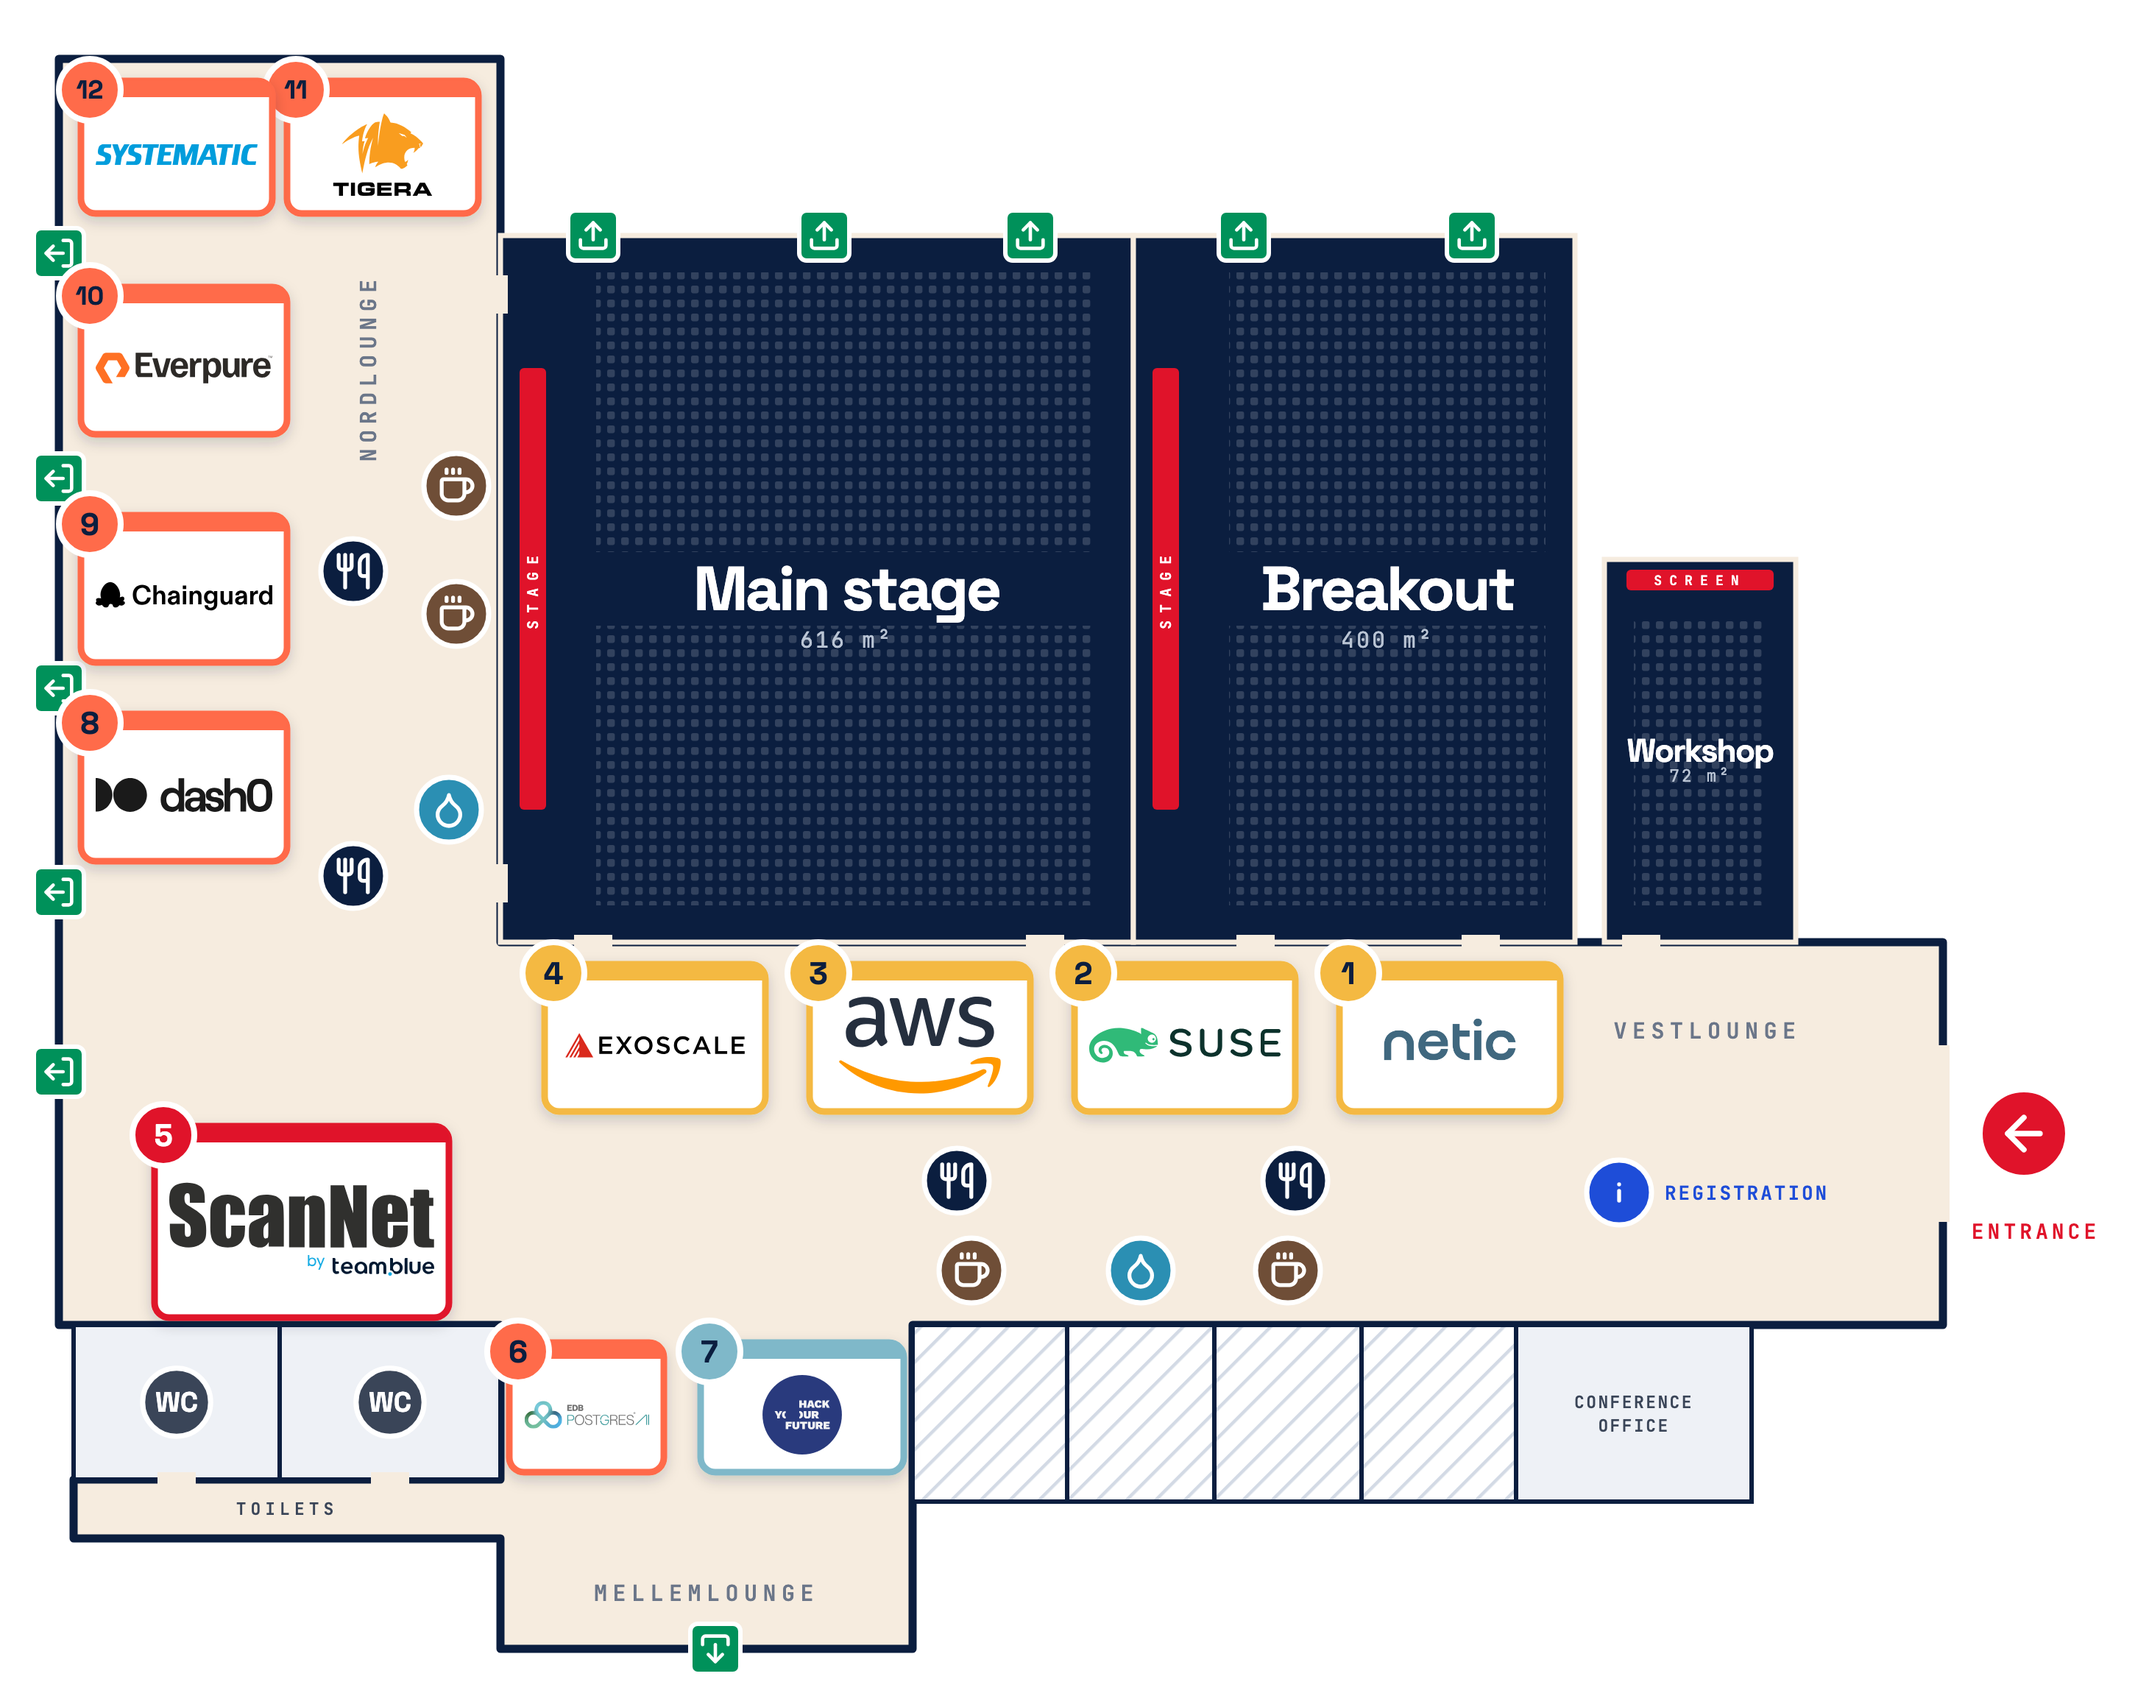
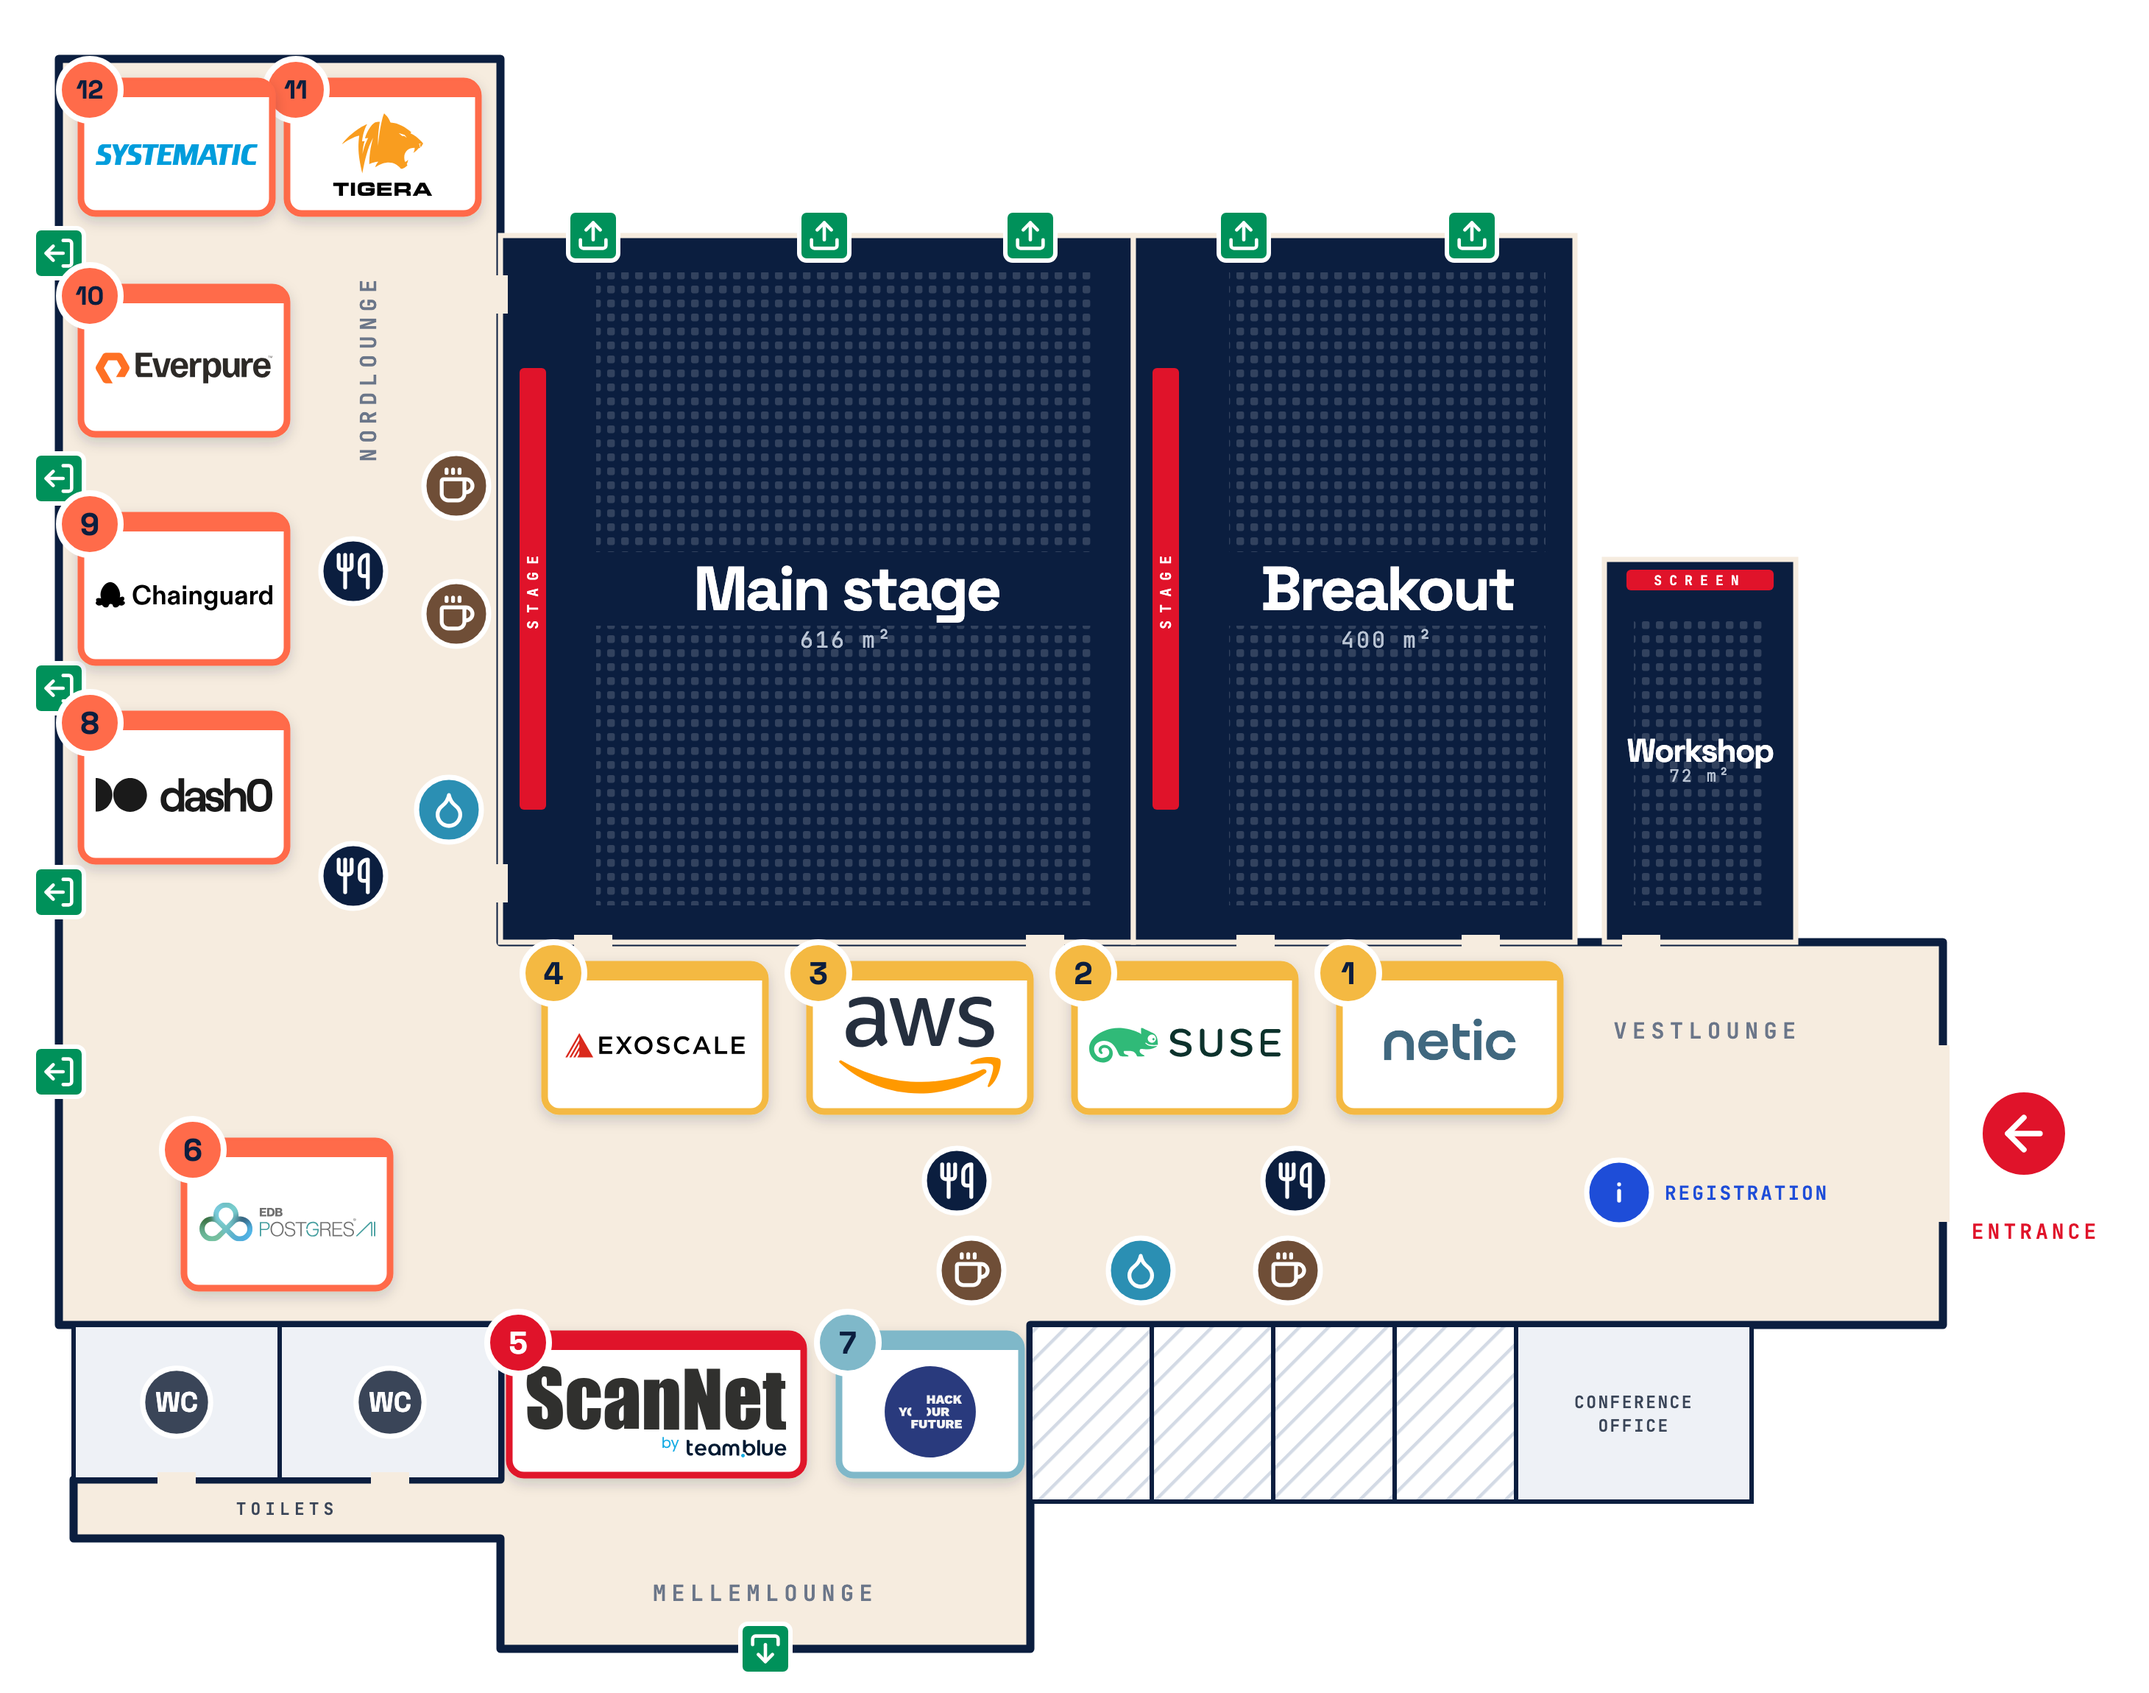
Venue map from the website again: ScanNet moves to booth 5 by the toilets, EDB Postgres AI to booth 6 in the corner

Changed region(s): [[0.0623, 0.6483, 0.4986, 0.9878], [0.6233, 0.8026, 0.6545, 0.8643]]

diff --git a/decks/day1-morning/index.html b/decks/day1-morning/index.html
@@ -413,8 +413,8 @@
 </section>
 
 <!-- Conference floor map, rasterised at 2920x2300 from the SVG on
-     cloudnativedenmark.dk/conference-map (November 2026: booth 6 is EDB
-     Postgres AI). A PNG rather than the SVG
+     cloudnativedenmark.dk/conference-map (12 November 2026: ScanNet is
+     booth 5 by the toilets, EDB Postgres AI booth 6 in the corner). A PNG rather than the SVG
      because the map carries its own colours and sponsor logos, which the
      token lint would (rightly) reject in a deck source file. -->
 <section class="slide" data-layout="map" data-field="none">
